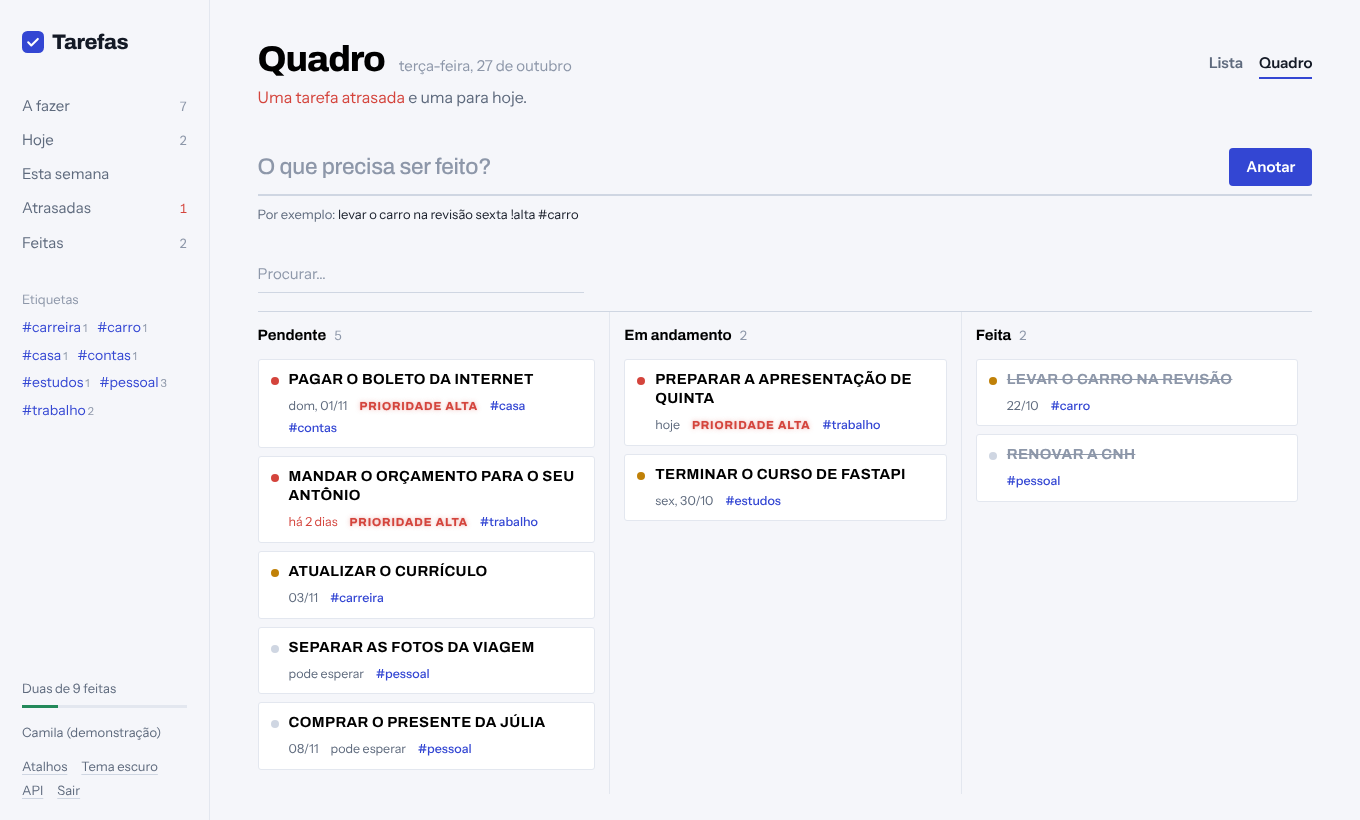
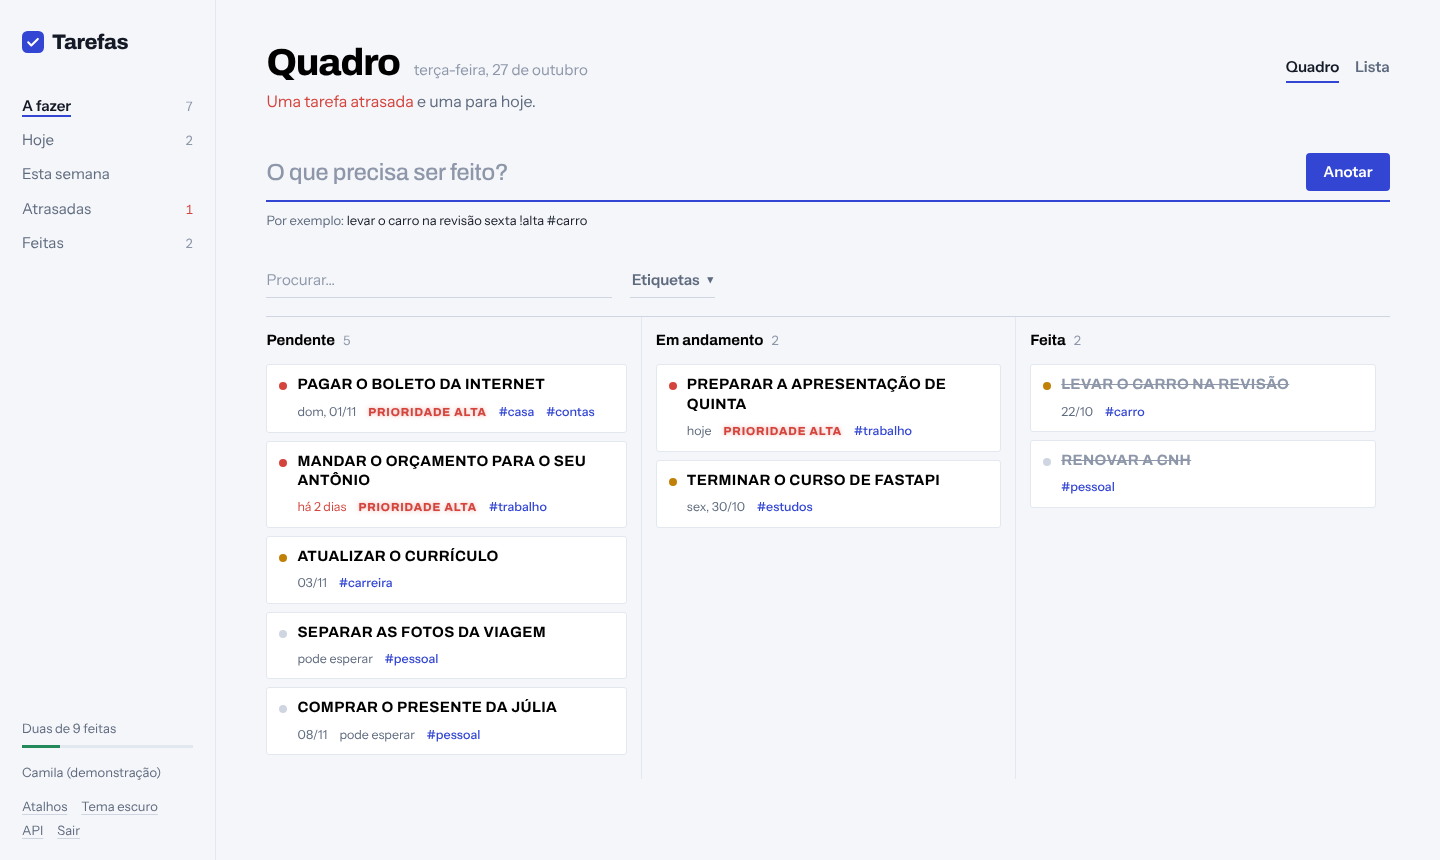
Ao entrar, o app abre no Quadro; a Lista vira a segunda opção
As visões do menu (Hoje, Esta semana, Atrasadas) também filtram o quadro;
Feitas continua abrindo a lista.

Claude-Session: https://claude.ai/code/session_01LiHwS4HZUZgBoyyaKq9JBM

diff --git a/app/static/app.js b/app/static/app.js
@@ -171,7 +171,7 @@ const DEMO = { email: "demo@tarefas.dev", password: "demo12345" };
 const state = {
   user: null,
   view: "inbox",
-  mode: store.get("tarefas.mode") === "board" ? "board" : "list",
+  mode: "board", // ao entrar, o quadro dá a visão geral; a lista é a segunda opção
   tag: null,
   q: "",
   tasks: [],
@@ -412,6 +412,7 @@ const LANES = [["pendente", "Pendente"], ["em_andamento", "Em andamento"], ["con
 let els = {};
 
 function renderApp() {
+  Object.assign(state, { mode: "board", view: "inbox" });
   document.title = "Tarefas";
   const app = h("div", { class: "app" });
   const scrim = h("div", { class: "scrim", hidden: true });
@@ -540,7 +541,6 @@ function setView(view) {
 
 function setMode(mode) {
   state.mode = mode;
-  store.set("tarefas.mode", mode);
   drawChrome();
   loadTasks();
 }
@@ -573,10 +573,8 @@ function drawChrome() {
     late: s.overdue, done: s.by_status.concluida,
   };
   fill(els.views, Object.entries(VIEWS).map(([key, view]) => h("button", {
-    class: "view", type: "button", "aria-current": String(state.view === key && state.mode === "list"), onclick: () => {
-      if (state.mode === "board") state.mode = "list";
-      setView(key);
-    },
+    // No quadro, as visões filtram as colunas; "Feitas" abre a lista.
+    class: "view", type: "button", "aria-current": String(state.view === key), onclick: () => setView(key),
   }, h("span", null, view.label),
     counts && counts[key] ? h("span", { class: `view__n${key === "late" ? " view__n--late" : ""}` }, counts[key]) : null)));
 
@@ -592,7 +590,7 @@ function drawChrome() {
 
   els.title.textContent = state.mode === "board" ? "Quadro" : VIEWS[state.view].label;
   fill(els.line, summary(s));
-  fill(els.modes, [["list", "Lista"], ["board", "Quadro"]].map(([mode, label]) => h("button", {
+  fill(els.modes, [["board", "Quadro"], ["list", "Lista"]].map(([mode, label]) => h("button", {
     type: "button", "aria-pressed": String(state.mode === mode), onclick: () => setMode(mode),
   }, label)));
 
@@ -948,7 +946,7 @@ function openShortcuts() {
     h("dl", { class: "keys" },
       row(["n"], "Anotar"),
       row(["/"], "Procurar"),
-      row(["b"], "Lista ou quadro"),
+      row(["b"], "Quadro ou lista"),
       row(["1", "–", "5"], "Trocar de visão"),
       row(["Ctrl", "Enter"], "Salvar a tarefa aberta")),
     h("button", { class: "btn btn--plain", type: "button", onclick: () => dialog.close() }, "Fechar"));

diff --git a/README.md b/README.md
@@ -18,7 +18,7 @@ paginação e um resumo com as tarefas atrasadas.
 > `demo12345`). Hospedada no plano gratuito do Render: o primeiro acesso depois de um tempo
 > parado pode levar cerca de 50 segundos.
 
-![Interface web](docs/interface.png)
+![Quadro de tarefas](docs/quadro.png)
 
 ## Interface web
 
@@ -32,7 +32,8 @@ finas, o nome de cada grupo escrito na margem e quase nenhuma caixa ou sombra.
   `em 3 dias`, `!alta`/`!média`/`!baixa` e `#etiqueta`.
 - **Organizada pelo tempo**: atrasadas, hoje, amanhã, esta semana, mais pra frente e sem prazo.
   A cor do círculo indica a prioridade; meio preenchido quer dizer "em andamento".
-- **Quadro**: colunas Pendente, Em andamento e Feita; arrastar muda a situação da tarefa.
+- **Quadro (tela inicial)**: ao entrar, as tarefas aparecem em colunas Pendente, Em andamento e
+  Feita; arrastar muda a situação. A **Lista**, organizada pelo tempo, é a segunda opção.
 - **Ficha da tarefa** ao lado, para editar tudo; marcar como feita e excluir têm **Desfazer**.
 - **Tipografia com hierarquia clara**: títulos das tarefas em caixa alta, pretos e em negrito
   (Archivo), descrições em texto corrido (Instrument Sans) e etiquetas e prazos menores.
@@ -41,9 +42,9 @@ finas, o nome de cada grupo escrito na margem e quase nenhuma caixa ou sombra.
 - O cabeçalho resume o dia numa frase ("Uma tarefa atrasada e duas para hoje."), há tema claro
   e escuro, atalhos de teclado (`?`) e layout para celular.
 
-| Lista | Quadro |
+| Quadro (tela inicial) | Lista |
 |---|---|
-| ![Lista](docs/interface.png) | ![Quadro](docs/quadro.png) |
+| ![Quadro](docs/quadro.png) | ![Lista](docs/interface.png) |
 | **Entrada** | **Tema escuro e ficha da tarefa** |
 | ![Entrada](docs/entrada.png) | ![Tema escuro](docs/escuro.png) |
 
